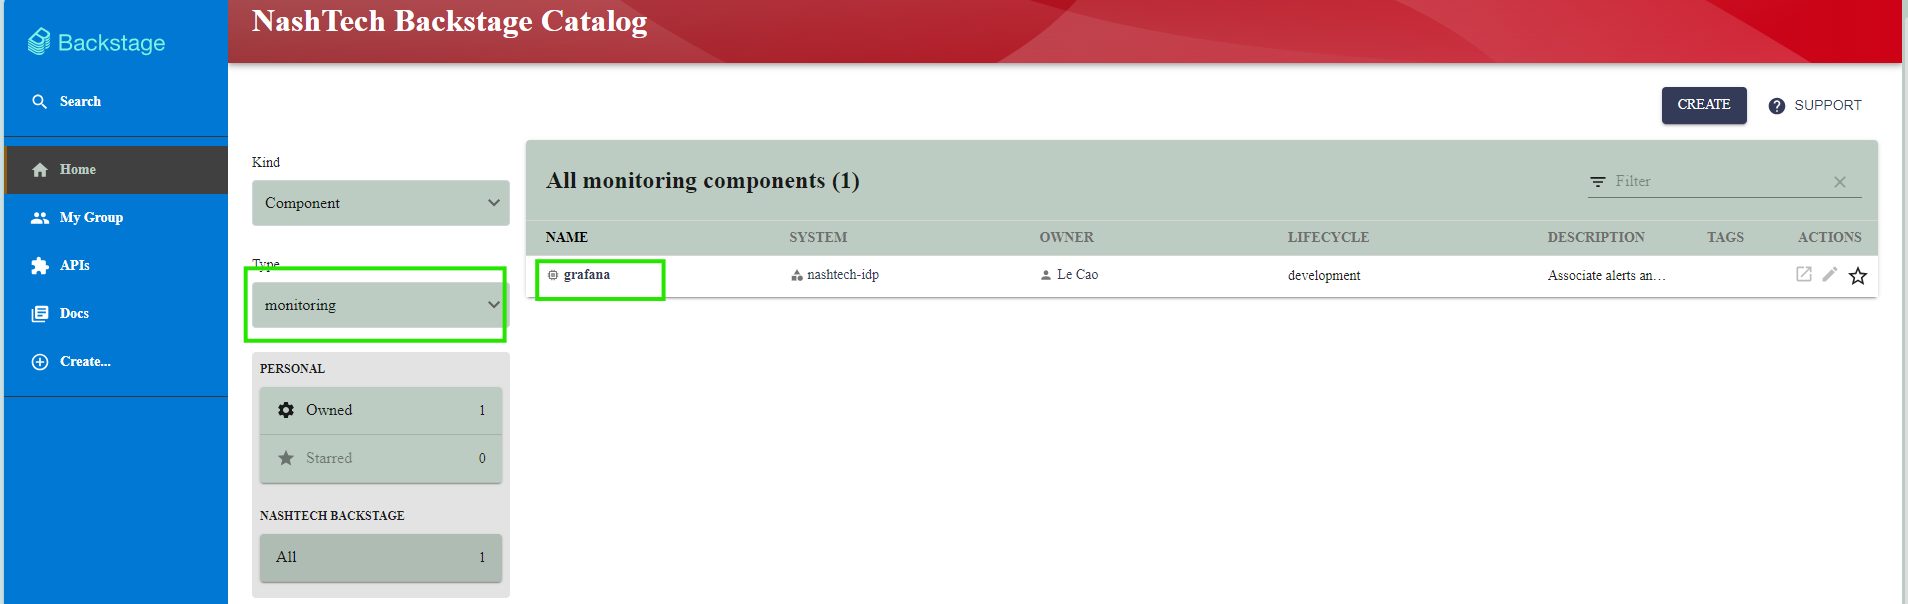
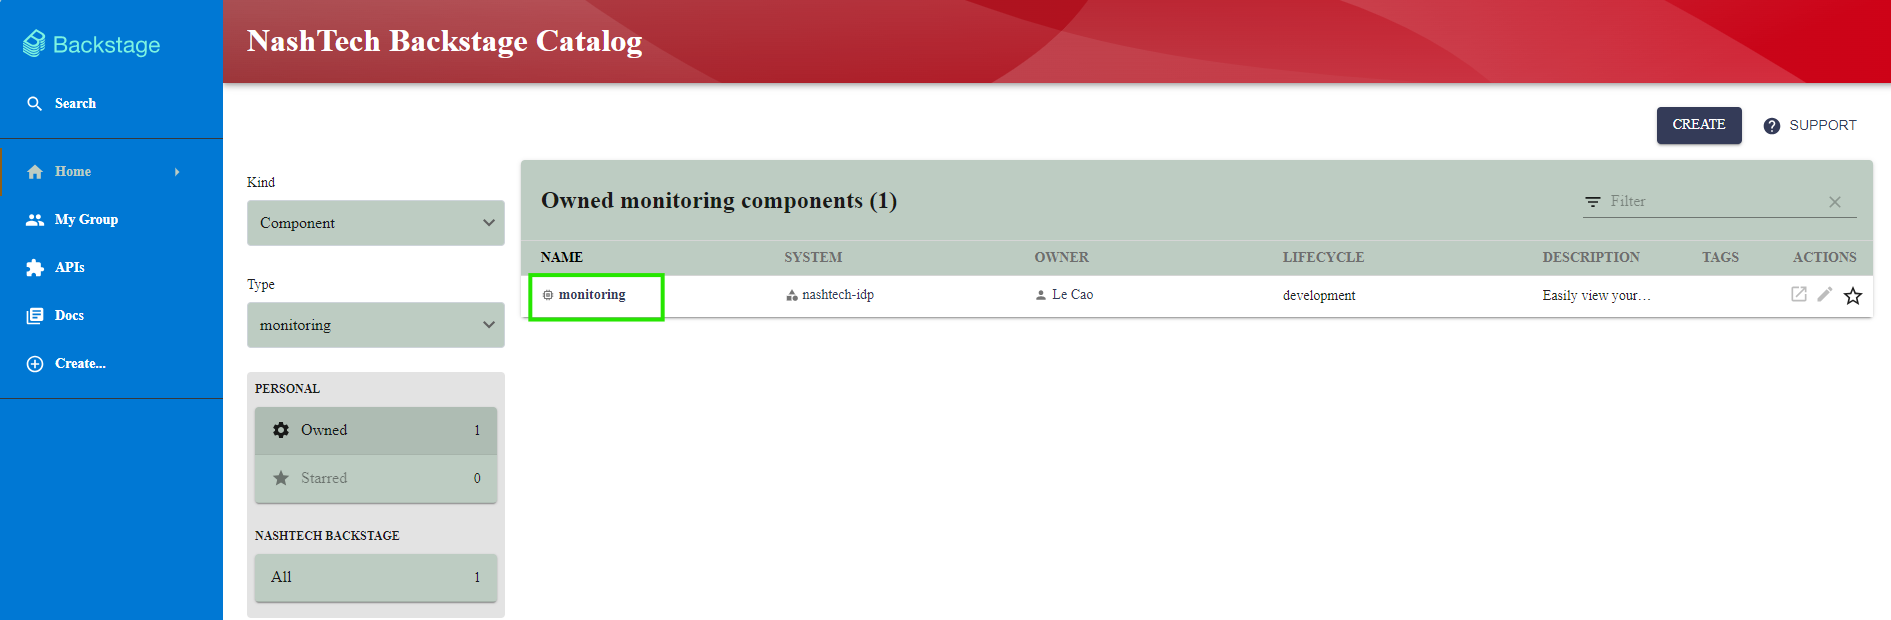
Documentation

diff --git a/documentation/IDP/implemetation/integration/monitoring/setup-grafana-plugins.md b/documentation/IDP/implemetation/integration/monitoring/setup-grafana-plugins.md
@@ -27,7 +27,7 @@ Config GRAFANA_URL and GRAFANA_TOKEN in env
 export GRAFANA_TOKEN=<your grafana token>
 export GRAFANA_URL=<your grafana host>
 ```
-# Display dashboards on a component page
+# Display dashboards and alert on a component page
 Adding the EntityGrafanaDashboardsCard component to an entity's page will display a list of dashboards related to that entity.
 
 ```tsx
@@ -36,13 +36,40 @@ Adding the EntityGrafanaDashboardsCard component to an entity's page will displa
 import { EntityGrafanaDashboardsCard } from '@backstage-community/plugin-grafana';
 
 // ...
-
-const overviewContent = (
+const monitoringPage = (
+  <EntityLayout>
+    <EntityLayout.Route path="/" title="Overview">
+    <Grid container spacing={3} alignItems="stretch">
+    {entityWarningContent}
     <Grid item md={6}>
-      {/* Grafana dashboard card start */}
-      <EntityGrafanaDashboardsCard />
-      {/* Grafana alert card end */}
-    </Grid>
+      <EntityAboutCard variant="gridItem" />
+    </Grid>  
+  </Grid>
+    </EntityLayout.Route>
+    <EntityLayout.Route path="/grafana-dashboard" title="Grafana Dashboard">
+      <Grid item md={6}>
+        <EntityGrafanaDashboardsCard />
+      </Grid> 
+      </EntityLayout.Route>
+
+      <EntityLayout.Route path="/grafana-alert" title="Grafana Alert">
+      <Grid item md={6}>      
+        <EntityGrafanaAlertsCard />
+      </Grid> 
+
+      </EntityLayout.Route>
+  
+  </EntityLayout>
+);
+
+const componentPage = (
+  <EntitySwitch>
+
+    <EntitySwitch.Case if={isComponentType('monitoring')}>
+      {monitoringPage}
+    </EntitySwitch.Case>
+
+  </EntitySwitch>
 );
 ```
 Grafana dashboards are correlated to Backstage entities using a selector defined by an annotation added in the entity's catalog-info.yaml file. The EntityGrafanaDashboardsCard component will then display dashboards matching the given selector.
@@ -75,26 +102,7 @@ Supported unary operators:
 
 Note that the tags @> "my-service" selector can be simplified as:
 
-# Display alerts on a component page
-Adding the EntityGrafanaAlertsCard component to an entity's page will display a list of alerts related to that entity.
 
-```tsx
-// packages/app/src/components/catalog/EntityPage.tsx
-
-import { EntityGrafanaAlertsCard } from '@backstage-community/plugin-grafana';
-
-// ...
-
-const overviewContent = (
-  <Grid container spacing={3} alignItems="stretch">
-    <Grid item md={6}>
-      {/* Grafana alert card start */}
-      <EntityGrafanaAlertsCard />
-      {/* Grafana alert card end */}
-    </Grid>
-  </Grid>
-); 
-```
 Grafana alerts are correlated to Backstage entities using an annotation added in the entity's catalog-info.yaml file.
 ## With Grafana Unified Alerting enabled
 Open the ArgoCD argocd-cm ConfigMap using the following command:
@@ -119,25 +127,25 @@ kubectl rollout restart deployment argocd-server -n argocd
 ```
 # Create grafana component
 ```yaml
-# grafana-component.yaml
+# monitoring-component.yaml
 apiVersion: backstage.io/v1alpha1
 kind: Component
 metadata:
   annotations:
     grafana/alert-label-selector: "rule=cpu,rule=disk-space"
     grafana/dashboard-selector: "(tags @> 'grafanacloud' || tags @> 'cardinality-management')"
-  name: grafana
-  description: Associate alerts and dashboards to components
+  name: monitoring
+  description: Easily view your New Relic Dashboards, Grafana Dashboards in Backstage, via real-time snapshots of your dashboards
 spec:
   type: monitoring
   owner: user:default/le.caothihoang
   lifecycle: development
   system: nashtech-idp
 ```
-Add grafana-component.yaml into app-config.yaml
+Add monitoring-component.yaml into app-config.yaml
 ```yaml
     - type: file
-      target: ../../packages/backend/component/grafana-component.yaml
+      target: ../../packages/backend/component/monitoring-component.yaml
       rules:
         - allow: [Component]
 ```

diff --git a/documentation/IDP/implemetation/integration/monitoring/prometheus-plugins.md b/documentation/IDP/implemetation/integration/monitoring/prometheus-plugins.md
@@ -1,0 +1,90 @@
+# Introduction
+Prometheus plugin provides visualization of Prometheus metrics and alerts
+
+![](../../../assets/Screenshot%202024-10-16%20132225.png)
+
+# Installation 
+The Prometheus plugin is a frontend plugin. You will need to install it, configure it and add it to an appropriate location on the entity page.
+
+Install the Prometheus plugin into Backstage from the app folder of your repository.
+```bash
+cd packages/app
+yarn add @roadiehq/backstage-plugin-prometheus
+```
+Add the following to your app-config.yaml to enable this configuration
+```yaml
+# app-config.yaml
+proxy:
+  endpoints:    
+    '/prometheus/api':
+      # url to the api and path of your hosted prometheus instance
+      target: ${PROMETHEUS_URL}
+      changeOrigin: true
+      headers:
+        Authorization: Basic ${PROMETHEUS_TOKEN}
+```
+Config PROMETHEUS_URL, PROMETHEUS_TOKEN in env
+```env
+export PROMETHEUS_TOKEN=<your token>
+export PROMETHEUS_URL=<your url>
+
+```
+To generate a New Relic API Key , you can visit this [link](https://roadie.io/backstage/plugins/prometheus/)
+
+# Content page , Widget setup
+```tsx
+// packages/app/src/components/catalog/EntityPage.tsx
+
+import {
+  EntityPrometheusContent,
+  EntityPrometheusGraphCard,
+  EntityPrometheusAlertCard
+} from '@roadiehq/backstage-plugin-prometheus';
+
+// ...
+const monitoringPage = (
+  <EntityLayout>
+          <EntityLayout.Route path="/prometheus" title="Prometheus">
+        <EntityPrometheusContent />
+      </EntityLayout.Route>
+        <EntityLayout.Route path="/prometheus-alert" title="Prometheus Alert">
+        <Grid item md={8}>
+        <EntityPrometheusAlertCard />
+        </Grid>
+      </EntityLayout.Route>
+      <EntityLayout.Route path="/prometheus-graph" title="Prometheus Graph">
+        <Grid item md={6}>
+        <EntityPrometheusGraphCard />
+  </EntityLayout>
+);
+
+```
+
+Add newrelic.com/dashboard-guid annotation in catalog descriptor file
+
+```yaml
+annotations:
+  prometheus.io/rule: <rule>
+  prometheus.io/alert: <alert>
+```
+
+# Update monitoring-component.yaml if's existing
+```yaml
+# monitoring-component.yaml
+apiVersion: backstage.io/v1alpha1
+kind: Component
+metadata:
+  annotations:
+    newrelic.com/dashboard-guid: NDc5NDk1NnxWSVp8REFTSEJPQVJEfGRhOjcxMzEwNzA
+    grafana/alert-label-selector: "rule=cpu,rule=disk-space"
+    grafana/dashboard-selector: "(tags @> 'grafanacloud' || tags @> 'cardinality-management')"
+    prometheus.io/rule: memUsage|component
+    prometheus.io/alert: all
+  name: monitoring
+  description: Easily view your New Relic Dashboards, Grafana Dashboards in Backstage, via real-time snapshots of your dashboards
+spec:
+  type: monitoring
+  owner: user:default/le.caothihoang
+  lifecycle: development
+  system: nashtech-idp
+```

diff --git a/documentation/IDP/implemetation/integration/monitoring/newrelic-plugins.md b/documentation/IDP/implemetation/integration/monitoring/newrelic-plugins.md
@@ -1,0 +1,86 @@
+# Introduction
+This plugin uses the Backstage proxy to securely communicate with New Relic's APIs. We use NerdGraph (New Relic's GraphQL API)
+
+![](../../../assets/Screenshot%202024-10-15%20143825.png)
+
+# Installation 
+Add the plugin to your frontend app:
+```bash
+cd packages/app && yarn add @backstage-community/plugin-newrelic-dashboard
+```
+Add the following to your app-config.yaml to enable this configuration
+```yaml
+# app-config.yaml
+proxy:
+  endpoints:    
+    '/newrelic/api':
+      target: https://api.newrelic.com
+      headers:
+        X-Api-Key: ${NEW_RELIC_USER_KEY}
+```
+Config NEW_RELIC_USER_KEY in env
+```env
+export NEW_RELIC_USER_KEY=<your new relic uer key>
+
+```
+To generate a New Relic API Key , you can visit this [link](https://one.newrelic.com/api-keys?state=bf6c50f8-8572-ce04-ca42-d7fb485f4985)
+
+# Add the following to EntityPage.tsx to display New Relic Dashboard Tab
+```tsx
+/// In packages/app/src/components/catalog/EntityPage.tsx
+
+import {
+  isNewRelicDashboardAvailable,
+  EntityNewRelicDashboardContent,
+  EntityNewRelicDashboardCard,
+} from '@backstage-community/plugin-newrelic-dashboard';
+
+// ...
+const monitoringPage = (
+  <EntityLayout>
+    <EntityLayout.Route path="/" title="Overview">
+    <Grid container spacing={3} alignItems="stretch">
+    {entityWarningContent}
+    <Grid item md={6}>
+      <EntityAboutCard variant="gridItem" />
+    </Grid>  
+  </Grid>
+    </EntityLayout.Route>
+   <EntityLayout.Route
+      if={isNewRelicDashboardAvailable}
+      path="/newrelic-dashboard"
+      title="New Relic Dashboard"
+    >
+      <EntityNewRelicDashboardContent />
+    </EntityLayout.Route>
+  
+  </EntityLayout>
+);
+
+```
+
+Add newrelic.com/dashboard-guid annotation in catalog descriptor file
+
+```yaml
+annotations:
+  newrelic.com/dashboard-guid: dashboard_guid>
+```
+To Obtain the dashboard's GUID: Click the info icon by the dashboard's name to access the See metadata and manage tags modal and see the dashboard's GUID.
+# Update monitoring-component.yaml if's existing
+```yaml
+# monitoring-component.yaml
+apiVersion: backstage.io/v1alpha1
+kind: Component
+metadata:
+  annotations:
+    newrelic.com/dashboard-guid: NDc5NDk1NnxWSVp8REFTSEJPQVJEfGRhOjcxMzEwNzA
+    grafana/alert-label-selector: "rule=cpu,rule=disk-space"
+    grafana/dashboard-selector: "(tags @> 'grafanacloud' || tags @> 'cardinality-management')"
+  name: monitoring
+  description: Easily view your New Relic Dashboards, Grafana Dashboards in Backstage, via real-time snapshots of your dashboards
+spec:
+  type: monitoring
+  owner: user:default/le.caothihoang
+  lifecycle: development
+  system: nashtech-idp
+```

diff --git a/documentation/IDP/demo-features/monitoring/monirotoring.md b/documentation/IDP/demo-features/monitoring/monirotoring.md
@@ -1,0 +1,28 @@
+# View monitoring component
+
+![](../../assets/Screenshot%202024-10-14%20191304.png)
+
+![](../../assets/Screenshot%202024-10-14%20191400.png)
+
+# View New Relic Dashboard
+
+![](../../assets/Screenshot%202024-10-14%20191639.png)
+
+Click on New Relic link, it will lead us to New Relic
+
+![](../../assets/Screenshot%202024-10-16%20135052.png)
+
+![](../../assets/Screenshot%202024-10-16%20135156.png)
+
+# View Grafana Dashboard
+![](../../assets/Screenshot%202024-10-16%20135405.png)
+
+Click one item, it will lead us to detail of dashboard in 
+![](../../assets/Screenshot%202024-10-16%20135631.png)
+
+![](../../assets/Screenshot%202024-10-16%20135713.png)
+
+# View Grafana Alert
+![](../../assets/Screenshot%202024-10-16%20135811.png)
+
+![](../../assets/Screenshot%202024-10-16%20135912.png)
